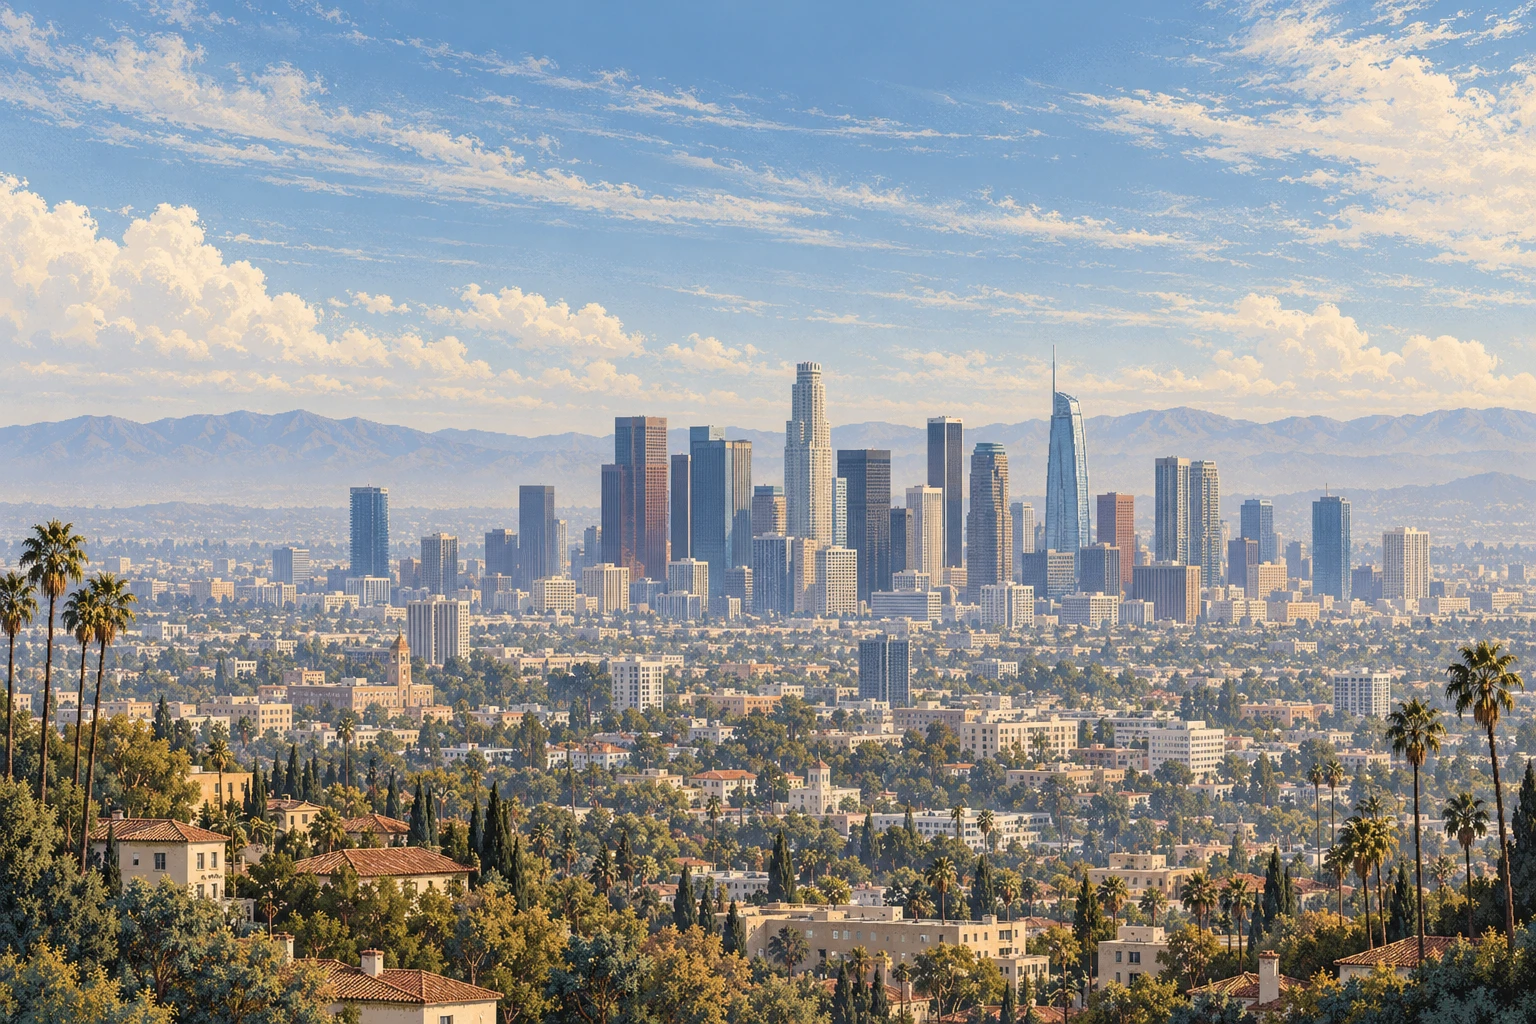
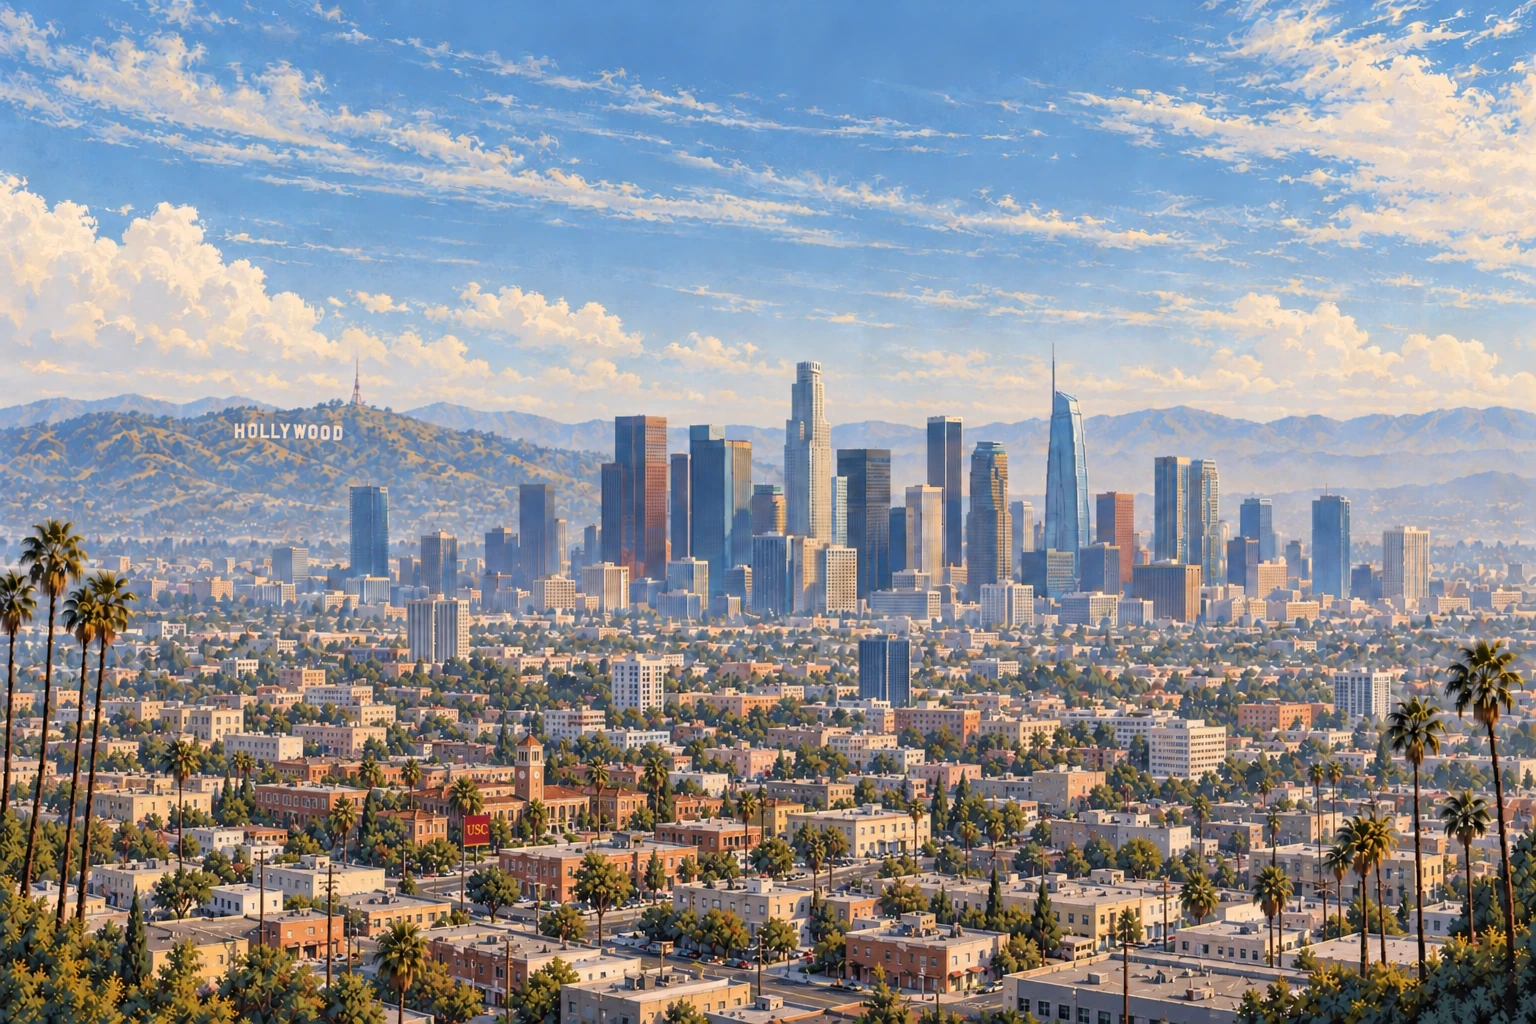
style(artwork): add Hollywood and USC to Los Angeles

diff --git a/src/assets/artwork/la/README.md b/src/assets/artwork/la/README.md
@@ -1,6 +1,8 @@
 # Los Angeles skyline backgrounds
 
-Generated with the built-in imagegen tool on October 21, 2026. Original artwork matching the SF collection. Day is the master composition; dawn, sunset, and night preserve its architecture and viewpoint while changing lighting. Assets are saved locally as optimized WebP files. Select this skyline in Settings → Appearance → Background city. Lighting follows the user’s local clock: dawn 05:00–07:59, day 08:00–16:59, sunset 17:00–19:59, night 20:00–04:59.
+Generated with the built-in imagegen tool on October 21, 2026, and revised on October 27 with the user-selected composition showing the Hollywood sign and a small USC campus within a flat urban neighborhood. The artwork matches the SF collection. Day is the master composition; dawn, sunset, and night preserve its architecture and viewpoint while changing lighting. Assets are saved locally as optimized WebP files. Select this skyline in Settings → Appearance → Background city. Lighting follows the user’s local clock: dawn 05:00–07:59, day 08:00–16:59, sunset 17:00–19:59, night 20:00–04:59.
+
+The Hollywood sign is on the left hillside; USC is a modest brick campus with a red-and-gold banner in the lower-left urban area. This is a stylized panorama rather than an exact geographic view. The [Hollywood and USC revision prompts](HOLLYWOOD_USC_PROMPTS.json) record the current edits.
 
 ## Assets
 
